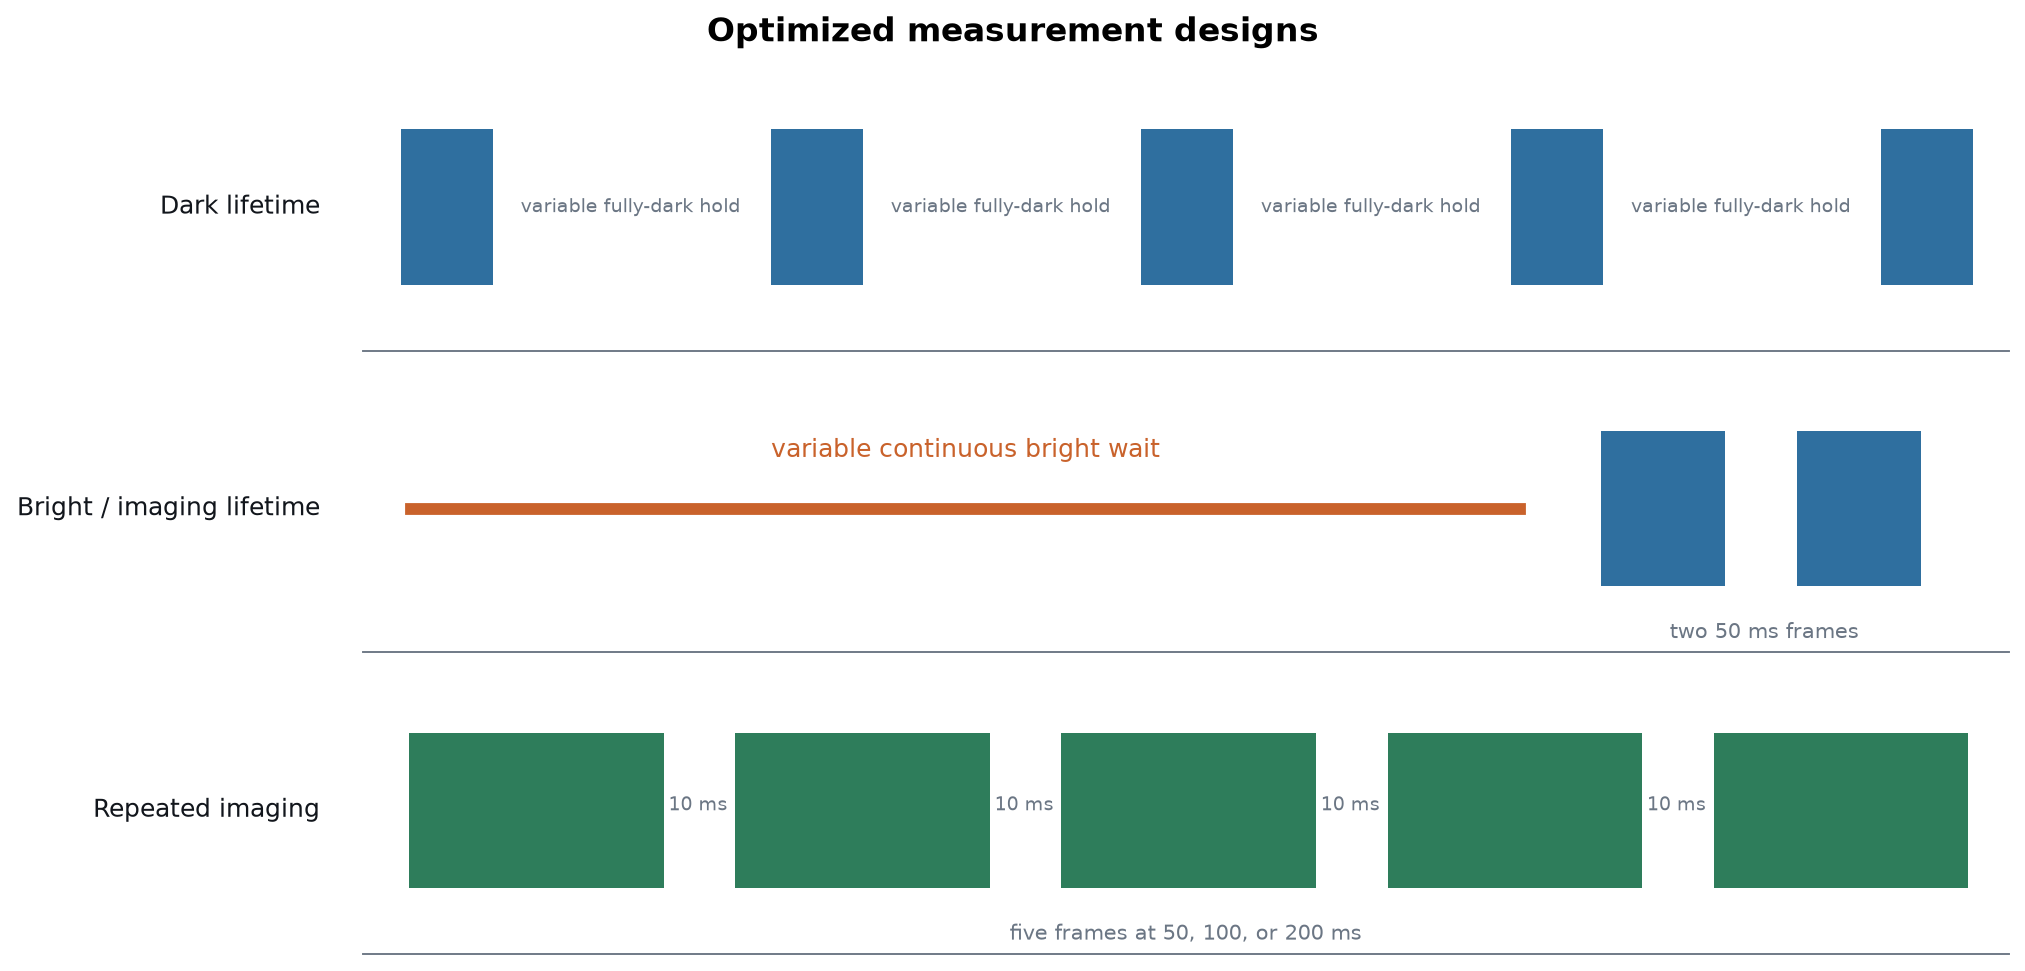
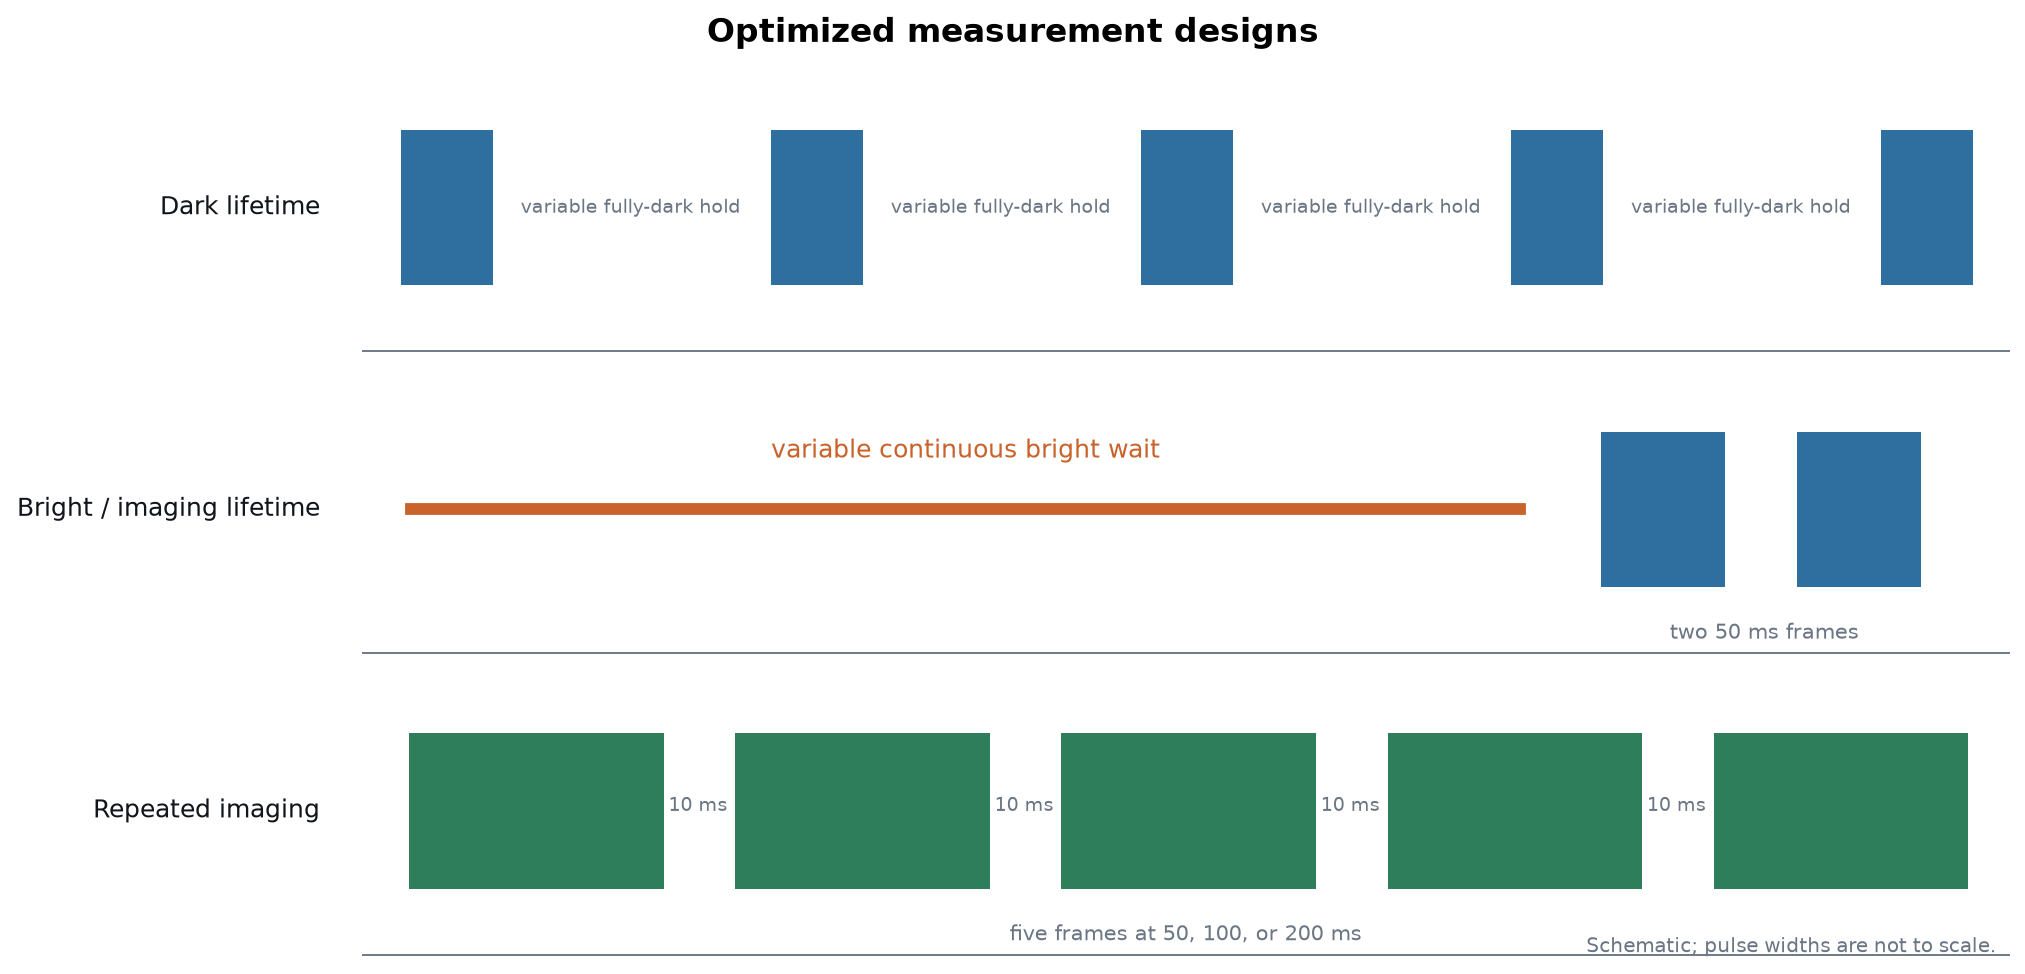
Improve optimized histogram contrast

diff --git a/scripts/generate_optimized_assets.py b/scripts/generate_optimized_assets.py
@@ -26,7 +26,6 @@ from fluorescence_inference.reporting import (  # noqa: E402
     INK,
     MUTED,
     OK,
-    SOFT,
     WARN,
     apply_style,
     assert_public_safe,
@@ -56,6 +55,10 @@ ASSET_NAMES = (
     "optimized_readout_tradeoff.png",
 )
 EXPOSURE_COLORS = {"50ms": ACCENT, "100ms": OK, "200ms": ACCENT_2}
+HIST_FILL = "#66727f"
+HIST_EDGE = "#3d4650"
+HIST_ALPHA = 0.82
+CORRECTED_HIST_EDGE = "#1f4d70"
 
 
 class AssetInputError(ValueError):
@@ -207,9 +210,17 @@ def _draw_occupancy(result: Mapping[str, Any], path: Path) -> None:
         ax.fill_between(
             x,
             distribution["heldout_density"],
-            color=SOFT,
+            color=HIST_FILL,
+            alpha=0.45,
             step="mid",
             label="held-out counts",
+        )
+        ax.step(
+            x,
+            distribution["heldout_density"],
+            where="mid",
+            color=HIST_EDGE,
+            linewidth=1.0,
         )
         ax.plot(x, distribution["model_empty_density"], color=ACCENT, label="empty component")
         ax.plot(
@@ -341,8 +352,14 @@ def _render_story_scene(
         bar = fig.add_axes([0.58, 0.27, 0.34, 0.45])
         values = [float(row[key]) for key in
                   ("roi_sum_raw", "background_fixed_offset", "background_corrected_count")]
-        bars = bar.bar(["raw ROI", "site-free\nbackground", "corrected\nsignal"], values,
-                       color=[SOFT, ACCENT, ACCENT_2], edgecolor=INK, linewidth=0.7)
+        bars = bar.bar(
+            ["raw ROI", "site-free\nbackground", "corrected\nsignal"],
+            values,
+            color=[HIST_FILL, ACCENT, ACCENT_2],
+            edgecolor=[HIST_EDGE, INK, INK],
+            alpha=HIST_ALPHA,
+            linewidth=0.7,
+        )
         for patch, value in zip(bars, values):
             bar.text(patch.get_x() + patch.get_width() / 2, value, f"{value:,.0f}",
                      ha="center", va="bottom", fontsize=9.5)
@@ -352,8 +369,14 @@ def _render_story_scene(
         values = story.heldout_raw_counts if index == 3 else story.heldout_corrected_counts
         ax = fig.add_axes([0.09, 0.20, 0.82, 0.60])
         limits = np.percentile(values, (0.2, 99.8))
-        ax.hist(values, bins=np.linspace(*limits, 70),
-                color=SOFT if index == 3 else ACCENT, edgecolor="white", linewidth=0.3)
+        ax.hist(
+            values,
+            bins=np.linspace(*limits, 70),
+            color=HIST_FILL if index == 3 else ACCENT,
+            edgecolor=HIST_EDGE if index == 3 else CORRECTED_HIST_EDGE,
+            alpha=HIST_ALPHA if index == 3 else 0.80,
+            linewidth=0.35,
+        )
         ax.set_xlabel("raw ROI count" if index == 3 else "background-corrected count")
         ax.set_ylabel("held-out site-frame observations")
         _story_caption(fig, "Same 20 held-out shots before correction." if index == 3 else
@@ -363,8 +386,21 @@ def _render_story_scene(
         distribution, metrics = block["public_heldout_distribution"], _selected_emission_metrics(block)
         x = np.asarray(distribution["bin_centers"], dtype=float)
         ax = fig.add_axes([0.09, 0.20, 0.82, 0.60])
-        ax.fill_between(x, distribution["heldout_density"], step="mid", color=SOFT,
-                        label="held-out counts")
+        ax.fill_between(
+            x,
+            distribution["heldout_density"],
+            step="mid",
+            color=HIST_FILL,
+            alpha=0.45,
+            label="held-out counts",
+        )
+        ax.step(
+            x,
+            distribution["heldout_density"],
+            where="mid",
+            color=HIST_EDGE,
+            linewidth=1.0,
+        )
         ax.plot(x, distribution["model_empty_density"], color=ACCENT, lw=2, label="empty component")
         ax.plot(x, distribution["model_occupied_density"], color=ACCENT_2, lw=2, label="occupied component")
         ax.set_xlabel("background-corrected count"); ax.set_ylabel("density"); ax.legend(loc="upper right")
@@ -441,13 +477,33 @@ def _draw_occupancy_summary(
                        facecolors="none", edgecolors="#7fe3ff", linewidths=0.6)
     axes[0, 0].set_title("raw frame + frozen ROIs"); axes[0, 0].set_axis_off()
     limits = np.percentile(story.heldout_corrected_counts, (0.2, 99.8))
-    axes[0, 1].hist(story.heldout_corrected_counts, bins=np.linspace(*limits, 55),
-                    color=SOFT, edgecolor="white", linewidth=0.25)
+    axes[0, 1].hist(
+        story.heldout_corrected_counts,
+        bins=np.linspace(*limits, 55),
+        color=ACCENT,
+        edgecolor=CORRECTED_HIST_EDGE,
+        alpha=0.80,
+        linewidth=0.35,
+    )
     axes[0, 1].set_title("background-corrected held-out counts")
     axes[0, 1].set_xlabel("corrected count"); axes[0, 1].set_ylabel("observations")
     block = result["repeated_imaging"]["emission_models_by_exposure"]["100ms"]
     distribution = block["public_heldout_distribution"]; x = np.asarray(distribution["bin_centers"], dtype=float)
-    axes[1, 0].fill_between(x, distribution["heldout_density"], step="mid", color=SOFT)
+    axes[1, 0].fill_between(
+        x,
+        distribution["heldout_density"],
+        step="mid",
+        color=HIST_FILL,
+        alpha=0.45,
+        label="held-out counts",
+    )
+    axes[1, 0].step(
+        x,
+        distribution["heldout_density"],
+        where="mid",
+        color=HIST_EDGE,
+        linewidth=1.0,
+    )
     axes[1, 0].plot(x, distribution["model_empty_density"], color=ACCENT, lw=1.8, label="empty")
     axes[1, 0].plot(x, distribution["model_occupied_density"], color=ACCENT_2, lw=1.8, label="occupied")
     axes[1, 0].set_title("held-out emission model"); axes[1, 0].set_xlabel("corrected count")
@@ -513,6 +569,14 @@ def _draw_sequence(path: Path) -> None:
     axes[2].set_xlim(-0.15, 5.15)
     axes[2].set_xticks([])
     fig.suptitle("Optimized measurement designs", fontsize=14, fontweight="bold")
+    fig.text(
+        0.99,
+        0.01,
+        "Schematic; pulse widths are not to scale.",
+        ha="right",
+        color=MUTED,
+        fontsize=8.5,
+    )
     save(fig, path, dpi=170)
 
 

diff --git a/tests/test_optimized_assets.py b/tests/test_optimized_assets.py
@@ -93,6 +93,32 @@ def _hashes(directory: Path):
     return {name: hashlib.sha256((directory / name).read_bytes()).hexdigest() for name in assets.ASSET_NAMES}
 
 
+def _relative_luminance(rgb: tuple[float, float, float]) -> float:
+    channels = [
+        value / 12.92 if value <= 0.04045 else ((value + 0.055) / 1.055) ** 2.4
+        for value in rgb
+    ]
+    return 0.2126 * channels[0] + 0.7152 * channels[1] + 0.0722 * channels[2]
+
+
+def _hex_rgb(value: str) -> tuple[float, float, float]:
+    return tuple(int(value[index:index + 2], 16) / 255 for index in (1, 3, 5))
+
+
+def _contrast_ratio(foreground: str, background: str, alpha: float) -> float:
+    fg = _hex_rgb(foreground)
+    bg = _hex_rgb(background)
+    composite = tuple(alpha * front + (1 - alpha) * back for front, back in zip(fg, bg))
+    light = _relative_luminance(bg)
+    dark = _relative_luminance(composite)
+    return (light + 0.05) / (dark + 0.05)
+
+
+def test_histogram_fill_has_visible_panel_contrast():
+    assert _contrast_ratio(assets.HIST_FILL, "#ffffff", assets.HIST_ALPHA) >= 3.0
+    assert assets.HIST_EDGE.lower() != "#ffffff"
+
+
 def _story() -> assets.OccupancyStoryData:
     y, x = np.mgrid[:120, :140]
     raw = 100 + 20 * np.sin(x / 13) + 15 * np.cos(y / 11)
@@ -142,6 +168,12 @@ def test_assets_are_deterministic_and_gated(tmp_path):
             animation.seek(index) or animation.info["duration"]
             for index in range(animation.n_frames)
         ) / 1000 == pytest.approx(11.5)
+        target = np.asarray([int(assets.HIST_FILL[index:index + 2], 16) for index in (1, 3, 5)])
+        for scene_index in (3, 5):
+            animation.seek(scene_index * (assets.STORY_TRANSITION_FRAMES + 1))
+            pixels = np.asarray(animation.convert("RGB"), dtype=int)
+            distance = np.max(np.abs(pixels - target), axis=2)
+            assert np.count_nonzero(distance < 48) > 2_000
     metadata = json.loads((first / "optimized_asset_metadata.json").read_text())
     assert metadata["representative_selection"]["uses_frozen_geometry_background_and_emissions"] is True
     assert metadata["animation"]["bytes"] < 8_000_000

diff --git a/tests/test_readme_narrative.py b/tests/test_readme_narrative.py
@@ -75,7 +75,7 @@ def test_main_table_has_only_requested_results():
         "dark operational lifetime",
         "bright operational lifetime",
         "model-implied overlap",
-        "selected-model five-frame survival",
+        "selected-model predicted five-frame survival",
         "pulse segmentation",
     ):
         assert phrase in section

diff --git a/README.md b/README.md
@@ -78,7 +78,7 @@ parentheses are 95% complete-shot intervals.
 | dark operational lifetime | **35.73 s** (32.09–40.26 s) |
 | bright operational lifetime | **20.30 s** (17.94–23.56 s) |
 | model-implied overlap | **0.59% / 0.33% / 0.20%** at 50 / 100 / 200 ms |
-| selected-model five-frame survival | **98.67% / 97.46% / 95.09%** at 50 / 100 / 200 ms |
+| selected-model predicted five-frame survival | **98.67% / 97.46% / 95.09%** at 50 / 100 / 200 ms |
 | pulse segmentation | no material additional pulse term selected |
 
 ![Dark and bright lifetime fits, clustered intervals, and the selected rate-based loss budget](assets/readme/optimized_lifetime_overview.png)
